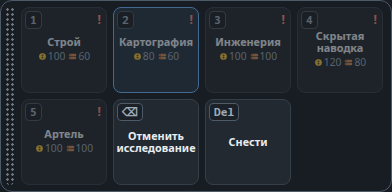
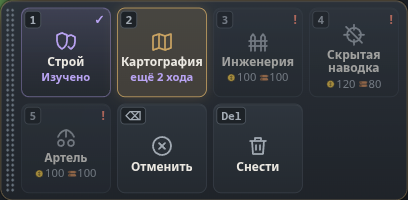
chore: обновить гайдбук

diff --git a/docs/guidebook/index.html b/docs/guidebook/index.html
@@ -250,13 +250,13 @@ dialog button{position:absolute;top:8px;right:8px;background:#000b;color:#fff;bo
   <div class="head"><div><div class="eyebrow">02 · Начало</div><h2>Настройка и первый ход</h2></div><p>На стартовом экране настройка идёт по шагам: режим → карта → противник (или составы сторон в тесте баланса). Способ генерации и сид находятся в свёрнутом блоке «Дополнительно». Открыть гайдбук можно по ссылке под кнопками «Начать игру» и «Сохранения» или из меню партии.</p></div>
   <div class="split">
     <figure class="shot">
-      <button type="button"><img src="assets/screenshots/game-first-turn.png" alt="Первый ход: ратуша, рабочий и туман войны вокруг" width="1280" height="720"></button>
-      <figcaption><span class="src game">Игра</span> Первый ход на карте 30×30: видна только область вокруг ратуши и рабочего. В шапке — ресурсы, конец хода, «Меню» и «?». Карточка рабочего — внизу слева, действия — рядом с ней, мини-карта — вверху справа.</figcaption>
+      <button type="button"><img src="assets/screenshots/game-first-turn.png" alt="Первый ход: ратуша, выбранный рабочий, лента «Ход 1 · Ваш ход» и туман войны вокруг" width="1280" height="720"></button>
+      <figcaption><span class="src game">Игра</span> Первый ход на карте 30×30: камера приближена к ратуше, видна только область вокруг неё и рабочего. В начале каждого вашего хода по центру карты ненадолго появляется лента «Ход N · Ваш ход». В шапке — ресурсы, конец хода, «Меню» и «?». Карточка рабочего — внизу слева, действия — рядом с ней, мини-карта — вверху справа.</figcaption>
     </figure>
     <div class="stack">
       <figure class="shot">
-        <button type="button"><img src="assets/screenshots/start-screen.png" alt="Стартовый экран с выбором режима, размера карты и генерации" width="860" height="683"></button>
-        <figcaption><span class="src sb">Экран игры</span> Стартовый экран: шаги настройки и свёрнутые дополнительные параметры.</figcaption>
+        <button type="button"><img src="assets/screenshots/start-screen.png" alt="Стартовый экран с выбором режима, размера карты и генерации поверх карты" width="1280" height="800"></button>
+        <figcaption><span class="src game">Экран игры</span> Стартовый экран поверх случайной карты: шаги настройки и свёрнутые дополнительные параметры. Карта на фоне — просто картинка, на партию она не влияет.</figcaption>
       </figure>
       <div class="panel">
         <h4>С чем вы начинаете</h4>
@@ -355,6 +355,7 @@ dialog button{position:absolute;top:8px;right:8px;background:#000b;color:#fff;bo
           <tr><td>Контекстная стройка</td><td>Выберите рабочего и нажмите <kbd>ПКМ</kbd> по известному золоту или лесу: мини-меню предложит допустимые здания. После выбора рабочий сразу идёт к соседней клетке и строит по прибытии; дальний приказ продолжается через «Выполнить приказы» и при завершении хода. Для остальных зданий нажмите «Построить» (<kbd>B</kbd>) и выберите свободную клетку рядом. ПКМ по полю по-прежнему приказывает идти. <kbd>Esc</kbd> закрывает меню; <kbd>U</kbd> отменяет приказ. Если по прибытии не хватает ресурсов или место занято, приказ остановится со знаком «!» и причиной в карточке. Цена показана иконками золота и древесины; при нехватке ресурсов кнопка получает красную рамку, а недостающий ресурс выделен красным. Приказ можно задать заранее: запасы проверяются и списываются только при стройке. ПКМ свободным рабочим по пустому своему руднику или лесопилке открывает кнопку «Работать»: рабочий входит сразу или доходит по сохраняемому приказу. Если место займут до прибытия, приказ остановится</td></tr>
           <tr><td>Точка сбора</td><td>Выберите своё здание найма, нажмите «Задать точку сбора» (<kbd>T</kbd>), затем <kbd>ЛКМ</kbd> по клетке (или сразу <kbd>ПКМ</kbd> зданием по клетке): отметка «Сбор» и координаты появятся на карте и в карточке. С точкой сбора найм кнопкой или цифрой сразу выбирает свободное место рядом, откуда путь к цели дешевле; без точки место появления выбирается вручную. Будущие новобранцы получат приказ идти туда с первых доступных очков, через «Выполнить приказы» или «Завершить ход». Смена точки не меняет уже нанятых. Снять — <kbd>U</kbd> или ПКМ по самому выбранному зданию. Занятая цель не допускает наложения: приказ остановится</td></tr>
           <tr><td>Идти в точку</td><td>Первый <kbd>ПКМ</kbd> по далёкой клетке закрепляет путь и показывает подсказку. Второй <kbd>ПКМ</kbd> по ней же подтверждает приказ и снимает выбор юнита. До подтверждения путь не следует за мышью; другая далёкая клетка меняет цель, <kbd>Esc</kbd> отменяет отметку. Юнит идёт сразу и в каждый следующий ход при «Завершить ход» или по кнопке «Выполнить приказы». Если путь перекрыт или замечен враг, юнит останавливается со значком <b>!</b>, а ход не передаётся — решите, что делать. Отмена — <kbd>U</kbd> или любой прямой приказ</td></tr>
+          <tr><td>Выполнить приказы</td><td>Кнопка «▶ Приказы» со счётчиком в шапке появляется, только пока у ваших юнитов есть отложенные приказы: идти в точку, авторазведка, стройка или работа по прибытии. Нажмите её, чтобы юниты продолжили приказы прямо сейчас на оставшиеся очки, — например, сначала подвести колонну, а потом решить, что делать остальным. При «Завершить ход» это происходит само</td></tr>
           <tr><td>Пропустить ход юнита</td><td><kbd>Пробел</kbd> или кнопка «Пропустить ход» — сжечь все очки движения и стройки/атаки, убрать из <kbd>Tab</kbd>, <kbd>.</kbd> и напоминания конца хода до следующего своего хода. Пробуждение не возвращает очки. Клавиша действует при отпускании, если не использовалась для камеры</td></tr>
           <tr><td>Спать / разбудить юнита</td><td><kbd>F</kbd> или кнопка «Спать» / «Разбудить» — убрать из напоминаний до пробуждения. Повторное <kbd>F</kbd> или успешный прямой приказ будит; очки сохраняются. Значки на карте: <b>Ⅱ</b> — пропуск, <b>Z</b> — сон; режим также показан в карточке</td></tr>
           <tr><td>Справка по клавишам и подсветке</td><td>«?» рядом с «Меню» или <kbd>F1</kbd> (справка браузера блокируется). Закрыть: <kbd>Esc</kbd>, повторный <kbd>F1</kbd> или клик мимо окна. Буквы — в текущей раскладке, если браузер её сообщает</td></tr>
@@ -377,14 +378,14 @@ dialog button{position:absolute;top:8px;right:8px;background:#000b;color:#fff;bo
         <button type="button"><img src="assets/screenshots/keyboard-help.png" alt="Справка: мышь, камера, выбор, ход, действия выбранного и легенда подсветки" width="900" height="895"></button>
         <figcaption><span class="src game">Игра</span> «?» и F1 открывают справку. Светлая область — куда идти, золотая — где строить, красные уголки — кого атаковать. Пока справка открыта, клавиши не двигают карту и не выполняют игровые команды.</figcaption>
       </figure>
-      <p class="small muted">В начале партии камера наведена на вашу ратушу. Карта занимает весь экран: выбранный объект показан в карточке внизу слева, его действия — в нижней панели рядом с карточкой, мини-карта — вверху справа (кнопка в её углу делает её полупрозрачной или прячет).</p>
+      <p class="small muted">В начале партии камера приближена и наведена на вашу ратушу. Карта занимает весь экран: выбранный объект показан в карточке внизу слева, его действия — в нижней панели рядом с карточкой, мини-карта — вверху справа (кнопка в её углу делает её полупрозрачной или прячет).</p>
     </div>
   </div>
 </section>
 
 <!-- 05. Туман -->
 <section id="fog">
-  <div class="head"><div><div class="eyebrow">05 · Информация</div><h2>Туман войны</h2></div><p>Каждая сторона видит только то, что рядом с её юнитами и зданиями, и помнит то, что видела раньше. Это касается и компьютерного противника. Границы между видимой, разведанной и неизвестной областями сглажены; обзор и доступность действий по-прежнему определяются клетками.</p></div>
+  <div class="head"><div><div class="eyebrow">05 · Информация</div><h2>Туман войны</h2></div><p>Каждая сторона видит только то, что рядом с её юнитами и зданиями, и помнит то, что видела раньше. Это касается и компьютерного противника. Границы между видимой, разведанной и неизвестной областями сглажены, неизвестное закрыто облаками, а край мира скруглён и уходит в тень; обзор и доступность действий по-прежнему определяются клетками.</p></div>
   <div class="grid2">
     <figure class="shot">
       <button type="button"><img src="assets/screenshots/fog-of-war.png" alt="Карта с туманом: видимые, разведанные и неизвестные клетки" width="1600" height="900"></button>
@@ -520,7 +521,7 @@ dialog button{position:absolute;top:8px;right:8px;background:#000b;color:#fff;bo
   </div>
   <div class="panel" style="margin-top:16px">
     <h3>Исследования кузницы</h3>
-    <p class="small">Выберите свою кузницу — в нижней панели появятся исследования с цифрами <kbd>1</kbd>…<kbd>5</kbd>. Изученное и текущую работу видно и в верхней панели — плашка «Исследования». Цена списывается сразу; работа идёт в конце каждого вашего хода, включая ход запуска. Одновременно изучается одно исследование, каждое — один раз. Отмена не возвращает ресурсы; отменить работу можно и из списка в верхней панели — даже если кузница потеряна. Изученное действует на всех ваших юнитов, старых и новых, и не пропадает при потере кузницы.</p>
+    <p class="small">Выберите свою кузницу — в нижней панели появятся исследования с цифрами <kbd>1</kbd>…<kbd>5</kbd>, у каждого свой значок. Изученное помечено «Изучено» и галочкой, у текущего вместо цены написано, сколько ходов осталось. То же видно и в верхней панели — плашка «Исследования». Цена списывается сразу; работа идёт в конце каждого вашего хода, включая ход запуска. Одновременно изучается одно исследование, каждое — один раз. Отмена не возвращает ресурсы; отменить работу можно и из списка в верхней панели — даже если кузница потеряна. Изученное действует на всех ваших юнитов, старых и новых, и не пропадает при потере кузницы.</p>
     <ul class="small" style="margin:0">
       <li><b>Строй</b> (100 з · 60 д, 3 хода): копейщик, рядом с которым по стороне (не по диагонали) стоит ваш копейщик, получает +2 к физической защите. Несколько соседей бонус не складывают, от магии он не защищает. Пока бонус действует, у копейщика в углу клетки виден голубой щит, а в его карточке защита показана как «2 (+2 — строй)».</li>
       <li><b>Картография</b> (80 з · 60 д, 2 хода): вражеского юнита, которого заметил ваш разведчик, вы помните на 2 хода дольше.</li>
@@ -531,8 +532,8 @@ dialog button{position:absolute;top:8px;right:8px;background:#000b;color:#fff;bo
   </div>
   <div class="grid3" style="margin-top:16px;align-items:start">
     <figure class="shot">
-      <button type="button"><img class="narrow" src="assets/screenshots/research-panel.png" alt="Нижняя панель кузницы: идёт Картография, другие исследования приглушены, есть отмена" width="392" height="192"></button>
-      <figcaption><span class="src sb">Панель игры</span> Нижняя панель кузницы: исследования выбираются цифрами 1…5, цена видна на кнопке, эффект — в подсказке при наведении. Сейчас изучается «Картография»: остальные исследования недоступны. <kbd>⌫</kbd> — отменить работу, с подтверждением; ресурсы не возвращаются. Прогресс и оставшиеся ходы — в шапке, в списке «Исследования».</figcaption>
+      <button type="button"><img class="narrow" src="assets/screenshots/research-panel.png" alt="Нижняя панель кузницы: Строй изучен, идёт Картография, другие исследования приглушены, есть отмена" width="408" height="200"></button>
+      <figcaption><span class="src game">Панель игры</span> Нижняя панель кузницы: исследования выбираются цифрами 1…5, цена видна на кнопке, эффект и срок — в подсказке при наведении. «Строй» уже изучен, «Картография» изучается — на кнопке видно, сколько ходов осталось; остальные исследования пока недоступны. «Отменить» (<kbd>⌫</kbd>) — остановить работу, с подтверждением; ресурсы не возвращаются.</figcaption>
     </figure>
     <figure class="shot">
       <button type="button"><img src="assets/screenshots/research-summary.png" alt="Список исследований по клику на плашку в верхней панели" width="540" height="500"></button>
@@ -799,40 +800,47 @@ dialog button{position:absolute;top:8px;right:8px;background:#000b;color:#fff;bo
   </div>
   <div class="grid3" style="margin-top:16px">
     <div class="panel"><h4>Перед приказом</h4><ul class="small" style="margin:0"><li>Зона движения, строительства и найма показана общей областью с контуром.</li><li>Цели атаки отмечены красными уголками.</li><li>Маршрут и его стоимость отображаются под курсором; до далёкой клетки — весь путь и число ходов.</li><li>Показана граница дальности атаки.</li><li>Ожидаемый урон отображается над целью.</li></ul></div>
-    <div class="panel"><h4>Состояние</h4><ul class="small" style="margin:0"><li>Запасы золота и дерева, доход за ход.</li><li>Текущее и предельное население.</li><li>«Исследования»: сколько изучено и что изучается сейчас; по клику — список всех пяти со статусом.</li><li>Оставшиеся очки движения и действия юнита.</li><li>Юниты без доступных действий отображаются затемнёнными.</li><li>«!» отмечает пустой рудник или лесопилку.</li><li>Голубой щит в углу копейщика — действует Строй (+2 к броне).</li><li>Трещины и дым — здание потеряло больше половины прочности.</li><li>Сторону показывает не только цвет, но и форма метки на подставке: у синих круг, у красных ромб.</li><li>При сильном отдалении юниты и здания превращаются в значки стороны: так большую карту легче читать.</li></ul></div>
+    <div class="panel"><h4>Состояние</h4><ul class="small" style="margin:0"><li>Запасы золота и дерева, доход за ход; изменение запаса ненадолго всплывает над плашкой («+3», «−40»).</li><li>Текущее и предельное население.</li><li>«Исследования»: сколько изучено и что изучается сейчас; по клику — список всех пяти со статусом.</li><li>Оставшиеся очки движения и действия юнита.</li><li>Юниты без доступных действий отображаются затемнёнными.</li><li>«!» отмечает пустой рудник или лесопилку.</li><li>Голубой щит в углу копейщика — действует Строй (+2 к броне).</li><li>Трещины и дым — здание потеряло больше половины прочности.</li><li>Сторону показывает не только цвет, но и форма метки на подставке: у синих круг, у красных ромб.</li><li>При сильном отдалении юниты и здания превращаются в значки стороны: так большую карту легче читать.</li></ul></div>
     <div class="panel"><h4>Анимации</h4><ul class="small" style="margin:0"><li>Плавное перемещение юнитов и короткий выпад к цели при ударе.</li><li>Новобранцы появляются с кольцом цвета стороны и искрами, достроенное здание — с пылью и молотками.</li><li>Вспышка с числом урона и эффектом гибели.</li><li>«!» над врагом, который только что появился в обзоре, и «×» над клеткой, если приказ не выполнен.</li><li>Анимации и звуки — только для того, что вы видите: бой в тумане себя не выдаёт.</li><li>Выделение пульсирует; анимация отключается системной настройкой «Уменьшить движение».</li></ul></div>
   </div>
   <div class="grid3" style="margin-top:16px;align-items:start">
     <figure class="shot">
-      <button type="button"><img src="assets/screenshots/sb-barracks-panel.png" alt="Нижняя панель казарм: три кнопки найма с клавишами и ценой, кнопка сноса" width="392" height="100"></button>
-      <figcaption><span class="src sb">Панель игры</span> Найм в казармах — сразу клавишами 1, 2, 3 или кликом по кнопке. На кнопках видны цена и место в лимите населения; характеристики — при наведении. Недоступное действие приглушено и отмечено «!», причина — в подсказке. <kbd>Del</kbd> — снести выбранное здание, с подтверждением.</figcaption>
+      <button type="button"><img src="assets/screenshots/sb-barracks-panel.png" alt="Нижняя панель казарм: три кнопки найма с портретами, клавишами и ценой, точка сбора, кнопка сноса" width="600" height="104"></button>
+      <figcaption><span class="src game">Панель игры</span> Найм в казармах — сразу клавишами 1, 2, 3 или кликом по кнопке. На кнопках видны портрет, цена и место в лимите населения; характеристики — при наведении. У команд без портрета — значки. Недоступное действие приглушено и отмечено «!», причина — в подсказке. <kbd>Del</kbd> — снести выбранное здание, с подтверждением.</figcaption>
     </figure>
     <div class="stack">
       <figure class="shot">
-        <button type="button"><img src="assets/screenshots/sb-victory.png" alt="Экран победы с итогами игрока" width="720" height="628"></button>
-        <figcaption><span class="src sb">Экран игры</span> Победа: ход завершения, свои итоги и новая партия.</figcaption>
+        <button type="button"><img src="assets/screenshots/sb-victory.png" alt="Экран победы с итогами игрока" width="900" height="608"></button>
+        <figcaption><span class="src game">Экран игры</span> Победа: ход завершения, свои итоги и новая партия.</figcaption>
       </figure>
       <figure class="shot">
-        <button type="button"><img src="assets/screenshots/sb-defeat.png" alt="Экран поражения с итогами игрока" width="720" height="628"></button>
-        <figcaption><span class="src sb">Экран игры</span> Поражение. Если все участники выбыли одновременно, объявляется ничья.</figcaption>
+        <button type="button"><img src="assets/screenshots/sb-defeat.png" alt="Экран поражения с итогами игрока" width="900" height="608"></button>
+        <figcaption><span class="src game">Экран игры</span> Поражение. Если все участники выбыли одновременно, объявляется ничья.</figcaption>
       </figure>
     </div>
     <div class="panel">
       <h4>Результат и обзор</h4>
       <p class="small" style="margin:0 0 14px">В конце показаны исход, ход завершения, ваши оставшиеся юниты и здания, золото, дерево и изученные улучшения. «Обзор всей карты» открывает полный мир после партии: можно двигать камеру, менять масштаб и рассматривать объекты, а игровые приказы уже недоступны. «Итоги партии» возвращает к результату, «Начать новую игру» — к настройкам.</p>
       <h4>Меню партии</h4>
+      <p class="small" style="margin:0 0 8px">Кнопка «Меню» в шапке открывает окно паузы по центру экрана. <kbd>Esc</kbd>, «Продолжить» или клик мимо окна закрывают его; выбранный на карте объект остаётся выбранным.</p>
       <ul class="small" style="margin:0">
         <li><b>Сохранения</b> — ручные слоты, загрузка и настройки автосохранения; см. раздел 17.</li>
-        <li><b>Режим отладки</b> — см. раздел 15.</li>
         <li><b>Гайдбук</b> — эта страница в новой вкладке.</li>
-        <li><b>Предупреждать об непоходивших юнитах</b> — включить или отключить вопрос перед концом хода до конца партии.</li>
-        <li><b>Звук</b> — громкость музыки и эффектов и выключение звука. Настройки запоминаются; то же есть на стартовом экране.</li>
-        <li><b>Ход ИИ</b> — «Обычная скорость», «Быстрая ×2» или «Без анимаций». Выбор запоминается.</li>
-        <li><b>Помощь и обучение</b> — диалоги-подсказки, обучение и его повторный запуск.</li>
+        <li><b>Начать обучение заново</b> — обучение с первого шага.</li>
         <li><b>Сдаться</b> — партия заканчивается поражением, с подтверждением.</li>
         <li><b>Сбросить игру</b> — с подтверждением.</li>
       </ul>
-      <p class="small muted" style="margin:10px 0 0">Снос здания тоже спрашивает подтверждение. Если юниты ещё могут идти, атаковать или лечить, «Завершить ход» переспросит — это можно отключить галочкой «Больше не спрашивать» до конца партии, а вернуть — флажком «Предупреждать об непоходивших юнитах» в «Меню».</p>
+      <p class="small" style="margin:8px 0 4px">Справа — настройки:</p>
+      <ul class="small" style="margin:0">
+        <li><b>Партия</b>: «Предупреждать о непоходивших юнитах» — вопрос перед концом хода до конца партии; «Ход ИИ» — «Обычная скорость», «Быстрая ×2» или «Без анимаций», выбор запоминается.</li>
+        <li><b>Звук</b> — громкость музыки и эффектов и выключение звука. Настройки запоминаются; то же есть на стартовом экране.</li>
+        <li><b>Помощь</b> — диалоги-подсказки и обучение.</li>
+      </ul>
+      <figure class="shot" style="margin:12px 0 0">
+        <button type="button"><img src="assets/screenshots/game-menu.png" alt="Меню партии: слева действия, справа настройки партии, звука и помощи" width="696" height="523"></button>
+        <figcaption><span class="src game">Игра</span> Меню партии: слева — действия, внизу отдельно «Сдаться» и «Сбросить игру»; справа — настройки.</figcaption>
+      </figure>
+      <p class="small muted" style="margin:10px 0 0">Снос здания тоже спрашивает подтверждение. Если юниты ещё могут идти, атаковать или лечить, «Завершить ход» переспросит — это можно отключить галочкой «Больше не спрашивать» до конца партии, а вернуть — флажком «Предупреждать о непоходивших юнитах» в «Меню».</p>
     </div>
   </div>
 </section>
